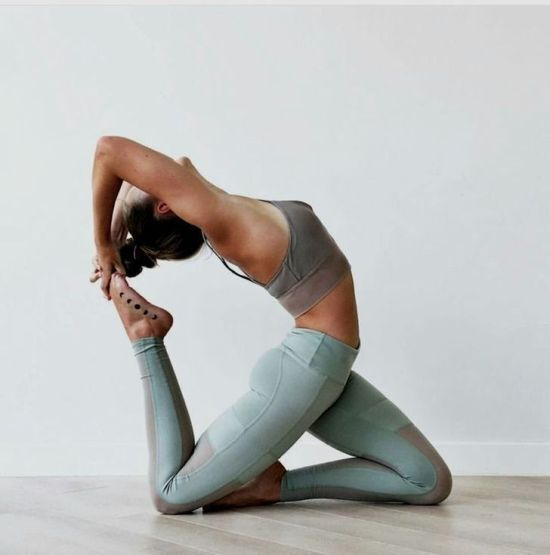
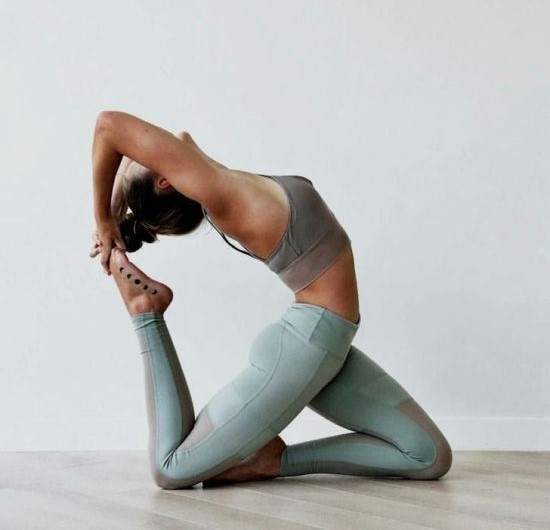
Completed styling on the Explore page

Changed region(s): [[0.1545, 0.2113, 1.0, 0.9358], [0.7727, 0.7849, 0.8036, 0.8151], [0.4327, 0.7547, 0.4636, 0.7849]]

diff --git a/src/Components/Category.js b/src/Components/Category.js
@@ -1,12 +1,15 @@
 // TODO: change onClick function so that it takes user to poseslist for selected category
 import "../styles/Category.css";
+import backbendedit from "./Images/backbendedit.jpg";
 
 export function Category({ name, description }) {
   return (
     <>
       <div className="page-container">
         <div className="container">
-          <div className="placeholder">Image</div>
+          <div className="placeholder">
+            <img src={backbendedit} alt="Woman doing yoga" className="images" />
+          </div>
           <div className="box-container">
             <h1 className="category-titles">{name}</h1>
             <hr className="divider" />

diff --git a/src/styles/CategoriesList.css b/src/styles/CategoriesList.css
@@ -18,11 +18,11 @@ a:hover {
 }
 
 .category-page {
-  width: 75%;
+  width: 975px;
   border-radius: 10px;
   display: block;
   margin: 0 auto;
-  background-color: #96afb8;
+  background-color: rgb(150, 175, 184, 0.6);
   padding-top: 20px;
   margin-top: 40px;
   padding-bottom: 20px;
@@ -30,7 +30,7 @@ a:hover {
 }
 
 .title-divider {
-  width: 60%;
+  width: 700px;
   display: block;
   margin: 0 auto;
 }

diff --git a/src/styles/Category.css b/src/styles/Category.css
@@ -24,10 +24,12 @@ p {
 }
 
 .placeholder {
-  background-color: #c1895d;
-  padding: 100px 150px;
   margin: 10px;
-  border-radius: 2px;
+}
+
+.images {
+  height: 400px;
+  border-radius: 3px;
 }
 
 .container {
